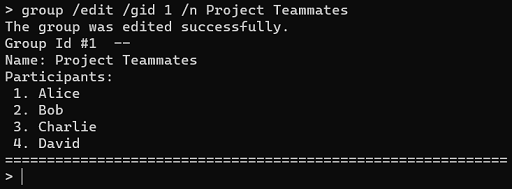
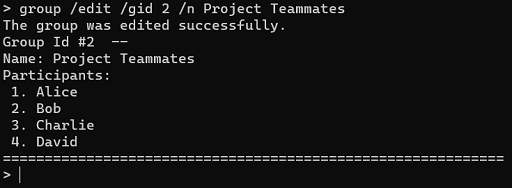
Update group command for UG

diff --git a/docs/UserGuide.md b/docs/UserGuide.md
@@ -660,17 +660,17 @@ Edits an existing group so that you can change the details of a group.<br>
 <br>
 
 Examples of usage:
-* A [group has been created](#creating-a-group-group-create) with a unique identifier of _1_,
-  named _Uni Friends_ with _Alice_, _Bob_, _Charlie_ and _David_ involved.
+* A [group has been created](#creating-a-group-group-create) with a unique identifier of _2_,
+  named _School Friends_ with _Alice_, _Bob_, _Charlie_ and _David_ involved.
 
 **Example 1**
 - Edits the group name to _Project Teammates_. <br><br>
-  `group /edit /gid 1 /n Project Teammates` <br><br>
+  `group /edit /gid 2 /n Project Teammates` <br><br>
   ![Group Edit command Screenshot 1](https://raw.githubusercontent.com/AY2122s2-cs2113t-t10-1/tp/master/docs/images/userguide/GroupEditCommand[1].png)
 
 **Example 2**
 - Edits the group to exclude _David_. <br><br>
-  `group /edit /gid 1 /pl Alice Bob Charlie` <br><br>
+  `group /edit /gid 2 /pl Alice Bob Charlie` <br><br>
   ![Group Edit command Screenshot 2](https://raw.githubusercontent.com/AY2122s2-cs2113t-t10-1/tp/master/docs/images/userguide/GroupEditCommand[2].png)
   <br>
   <br>
@@ -691,8 +691,8 @@ Displays the details about a group so that you can review it.<br>
 <br>
 
 **Example**:
-- Views a group with a unique identifier of _1_.<br><br>
-  `group /view /gid 1` <br><br>
+- Views a group with a unique identifier of _2_.<br><br>
+  `group /view /gid 2` <br><br>
   ![Group view command Screenshot](https://raw.githubusercontent.com/AY2122s2-cs2113t-t10-1/tp/master/docs/images/userguide/GroupViewCommand.png)
   <br>     
   <br>
